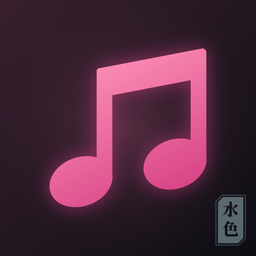
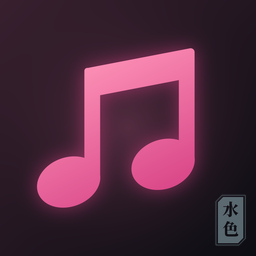
feat: menus in the order all Kai apps share, a color for every source
Settings: Library, each source with its colored dot and state, Playback or
Reading, Display (the app's own row last), About with the version, and the
project's line. A source's page: address, sign-in, options with its Color,
test, forget; it wears its color along the top, as KaiVideo's. The icon's
symbol sized by its area and centered.

Changed region(s): [[0.125, 0.1875, 0.8438, 0.8125]]

diff --git a/source/ui_overlay.c b/source/ui_overlay.c
@@ -139,6 +139,12 @@ static void settingValue(const App *app, SettingRow row, uint64_t now_ns, char *
         break;
     }
     case SETTING_ACCENT: snprintf(out, size, "%s", themeAccentName(app->config.accent)); break;
+    case SETTING_NET_COLOR:
+    case SETTING_SRV_COLOR: {
+        int choice = row == SETTING_NET_COLOR ? app->config.network_color : app->config.server_color;
+        snprintf(out, size, "%s", choice ? themeAccentName(choice - 1) : T("Its own"));
+        break;
+    }
     case SETTING_NOW_STYLE: snprintf(out, size, "%s", nowStyleName(app->config.now_style)); break;
     case SETTING_BACKGROUND:
         snprintf(out, size, "%.40s", app->config.background[0] ? app->config.background : T("Cover colors"));
@@ -241,7 +247,22 @@ static int drawNote(int x, int y, int width, const char *text, bool draw)
     return lines;
 }
 
-static void drawSettings(const App *app, uint64_t now_ns)
+#define SOURCE_DOT_SIZE 12
+#define SOURCE_DOT_ROOM 20  // The dot and the gap after it.
+
+static void sourceDot(int x, int middle, Color color)
+{
+    gfxFillRoundRect(x, middle - SOURCE_DOT_SIZE / 2, SOURCE_DOT_SIZE, SOURCE_DOT_SIZE, SOURCE_DOT_SIZE / 2, color);
+}
+
+#define SOURCE_BAND_H 5  // A source's page: its color along the top, as KaiVideo's.
+
+static bool isSourcePage(int page)
+{
+    return page == SETTINGS_PAGE_NETWORK || page == SETTINGS_PAGE_SERVER;
+}
+
+static void drawSettingsPanel(const App *app, uint64_t now_ns)
 {
     SettingRow rows[SETTINGS_PAGE_MAX_ROWS];
     int count = settingsPageRows(app->settings_page, rows);
@@ -251,9 +272,15 @@ static void drawSettings(const App *app, uint64_t now_ns)
     int x = (GFX_WIDTH - SETTINGS_W) / 2, y = (GFX_HEIGHT - h) / 2;
     dimScreen();
     panel(x, y, SETTINGS_W, h);
+    if (isSourcePage(app->settings_page))
+        gfxFillRoundRect(x + 16, y, SETTINGS_W - 32, SOURCE_BAND_H, SOURCE_BAND_H / 2, COLOR_ACCENT);
     int title_x = x + PANEL_PAD;
     if (app->settings_page != SETTINGS_PAGE_MAIN) {  // A page: back to the main one.
         title_x += uiDrawBackButtonHit(x + PANEL_PAD - 4, y + 18, false, HIT_OVERLAY_BACK) + 12;
+    }
+    if (app->settings_page == SETTINGS_PAGE_NETWORK || app->settings_page == SETTINGS_PAGE_SERVER) {  // Its color.
+        sourceDot(title_x, y + 37, app->settings_page == SETTINGS_PAGE_NETWORK ? COLOR_NETWORK : COLOR_SERVER);
+        title_x += SOURCE_DOT_ROOM;
     }
     fontDraw(FONT_BOLD, 24, title_x, y + 22, settingsPageTitle(app->settings_page), COLOR_TEXT);
 
@@ -266,8 +293,12 @@ static void drawSettings(const App *app, uint64_t now_ns)
         bool opens = settingsRowPage((SettingRow)i) != SETTINGS_PAGE_MAIN;
         if (selected)
             drawRowHighlight(x + 16, row_y, SETTINGS_W - 32, SETTINGS_ROW_H - 6);
-        fontDraw(selected ? FONT_BOLD : FONT_REGULAR, 21, x + PANEL_PAD, row_y + 8,
-                 settingsRowLabel((SettingRow)i), COLOR_TEXT);
+        int label_x = x + PANEL_PAD;
+        if (i == SETTING_OPEN_NETWORK || i == SETTING_OPEN_SERVER) {  // A source: its color, as KaiVideo's.
+            sourceDot(label_x, row_y + 22, i == SETTING_OPEN_NETWORK ? COLOR_NETWORK : COLOR_SERVER);
+            label_x += SOURCE_DOT_ROOM;
+        }
+        fontDraw(selected ? FONT_BOLD : FONT_REGULAR, 21, label_x, row_y + 8, settingsRowLabel((SettingRow)i), COLOR_TEXT);
         settingValue(app, (SettingRow)i, now_ns, value, sizeof(value));
         int value_w = fontTextWidth(FONT_BOLD, 20, value);
         int value_x = x + SETTINGS_W - PANEL_PAD - value_w - (editable || opens ? 24 : 0);
@@ -288,6 +319,16 @@ static void drawSettings(const App *app, uint64_t now_ns)
     else
         fontDrawClipped(FONT_REGULAR, 16, x + PANEL_PAD, y + h - 40, SETTINGS_W - 2 * PANEL_PAD,
                         T("Open source (MIT)  ·  github.com/mizuiroame/kaiplayer"), COLOR_FAINT);
+}
+
+// A source's page in its color (the accent's, for as long as it's drawn).
+static void drawSettings(const App *app, uint64_t now_ns)
+{
+    Color accent = g_ui_accent;
+    if (isSourcePage(app->settings_page))
+        g_ui_accent = app->settings_page == SETTINGS_PAGE_NETWORK ? COLOR_NETWORK : COLOR_SERVER;
+    drawSettingsPanel(app, now_ns);
+    g_ui_accent = accent;
 }
 
 static void drawKey(int x, int y, int w, const char *label, bool selected, bool lit, int hit_arg)

diff --git a/tests/test_touch.c b/tests/test_touch.c
@@ -93,18 +93,21 @@ static void testSettings(void)
     CHECK(settingsPageRows(SETTINGS_PAGE_MAIN, rows) == 6);
     CHECK(rows[0] == SETTING_OPEN_LIBRARY && rows[1] == SETTING_OPEN_NETWORK && rows[2] == SETTING_OPEN_SERVER &&
           rows[3] == SETTING_OPEN_PLAYBACK && rows[4] == SETTING_OPEN_DISPLAY && rows[5] == SETTING_ABOUT);
-    CHECK(settingsPageRows(SETTINGS_PAGE_SERVER, rows) == 5);
-    CHECK(rows[0] == SETTING_SRV_ADDRESS && rows[1] == SETTING_SRV_ACCOUNT && rows[2] == SETTING_SRV_TEST &&
-          rows[3] == SETTING_SRV_CERTIFICATE && rows[4] == SETTING_SRV_FORGET);
+    // Every source's page in one order, as the other Kai apps: address, sign-in, options (color last), test, forget.
+    CHECK(settingsPageRows(SETTINGS_PAGE_SERVER, rows) == 6);
+    CHECK(rows[0] == SETTING_SRV_ADDRESS && rows[1] == SETTING_SRV_ACCOUNT && rows[2] == SETTING_SRV_CERTIFICATE &&
+          rows[3] == SETTING_SRV_COLOR && rows[4] == SETTING_SRV_TEST && rows[5] == SETTING_SRV_FORGET);
+    CHECK(settingsRowEditable(SETTING_SRV_COLOR) && settingsRowEditable(SETTING_NET_COLOR));
     CHECK(settingsRowPage(SETTING_OPEN_SERVER) == SETTINGS_PAGE_SERVER &&
           settingsPageRow(SETTINGS_PAGE_SERVER) == SETTING_OPEN_SERVER);
     CHECK(settingsRowEditable(SETTING_SRV_CERTIFICATE) && !settingsRowEditable(SETTING_SRV_ADDRESS) &&
           !settingsRowEditable(SETTING_SRV_ACCOUNT) && !settingsRowEditable(SETTING_SRV_TEST) &&
           !settingsRowEditable(SETTING_SRV_FORGET));
     CHECK(strcmp(settingsPageTitle(SETTINGS_PAGE_SERVER), "Navidrome") == 0 && settingsPageNote(SETTINGS_PAGE_SERVER));
-    CHECK(settingsPageRows(SETTINGS_PAGE_NETWORK, rows) == 6);
+    CHECK(settingsPageRows(SETTINGS_PAGE_NETWORK, rows) == 7);
     CHECK(rows[0] == SETTING_NET_ADDRESS && rows[1] == SETTING_NET_ACCOUNT && rows[2] == SETTING_NET_REMEMBER &&
-          rows[3] == SETTING_NET_UNSIGNED && rows[4] == SETTING_NET_TEST && rows[5] == SETTING_NET_FORGET);
+          rows[3] == SETTING_NET_UNSIGNED && rows[4] == SETTING_NET_COLOR && rows[5] == SETTING_NET_TEST &&
+          rows[6] == SETTING_NET_FORGET);
     CHECK(!settingsRowEditable(SETTING_NET_ADDRESS) && !settingsRowEditable(SETTING_NET_FORGET));
     // The two switches change with the arrows too, as Certificate check.
     CHECK(settingsRowEditable(SETTING_NET_REMEMBER) && settingsRowEditable(SETTING_NET_UNSIGNED));

diff --git a/source/settings.c b/source/settings.c
@@ -10,17 +10,17 @@ static const char *const ROW_LABELS[SETTING_COUNT] = {
     N_("User and password"), N_("Test the connection"), N_("Forget this folder"), N_("Navidrome"), N_("Server"),
     N_("User and password"), N_("Test the connection"), N_("Certificate check"), N_("Forget this server"),
     N_("Remember the password"), N_("Allow without signing (old NAS)"), N_("Credits and licenses"),
-    N_("Check once a day"), N_("Look for an update"),
+    N_("Check once a day"), N_("Look for an update"), N_("Color"), N_("Color"),
 };
 
 // The same pages, in the same order, as KaiVideo's and KaiRadio's Settings.
 static const SettingRow MAIN_ROWS[] = {SETTING_OPEN_LIBRARY, SETTING_OPEN_NETWORK, SETTING_OPEN_SERVER,
                                        SETTING_OPEN_PLAYBACK, SETTING_OPEN_DISPLAY, SETTING_ABOUT};
 static const SettingRow LIBRARY_ROWS[] = {SETTING_LIBRARY, SETTING_RESCAN};
-static const SettingRow NETWORK_ROWS[] = {SETTING_NET_ADDRESS,  SETTING_NET_ACCOUNT, SETTING_NET_REMEMBER,
-                                          SETTING_NET_UNSIGNED, SETTING_NET_TEST,    SETTING_NET_FORGET};
-static const SettingRow SERVER_ROWS[] = {SETTING_SRV_ADDRESS, SETTING_SRV_ACCOUNT, SETTING_SRV_TEST,
-                                         SETTING_SRV_CERTIFICATE, SETTING_SRV_FORGET};
+static const SettingRow NETWORK_ROWS[] = {SETTING_NET_ADDRESS, SETTING_NET_ACCOUNT, SETTING_NET_REMEMBER,
+                                          SETTING_NET_UNSIGNED, SETTING_NET_COLOR, SETTING_NET_TEST, SETTING_NET_FORGET};
+static const SettingRow SERVER_ROWS[] = {SETTING_SRV_ADDRESS, SETTING_SRV_ACCOUNT, SETTING_SRV_CERTIFICATE,
+                                         SETTING_SRV_COLOR, SETTING_SRV_TEST, SETTING_SRV_FORGET};
 static const SettingRow PLAYBACK_ROWS[] = {SETTING_SLEEP, SETTING_RESUME, SETTING_SCREEN_OFF, SETTING_EQUALIZER,
                                            SETTING_REPLAYGAIN};
 static const SettingRow ABOUT_ROWS[] = {SETTING_CREDITS, SETTING_UPDATE_AUTO, SETTING_UPDATE_NOW};

diff --git a/source/config.c b/source/config.c
@@ -80,6 +80,10 @@ static void applyLine(Config *c, char *line)
         c->replaygain = clampInt(atoi(value), 0, REPLAYGAIN_MODE_COUNT - 1);
     } else if (strcmp(key, "accent") == 0) {
         c->accent = clampInt(atoi(value), 0, THEME_ACCENT_COUNT - 1);
+    } else if (strcmp(key, "network_color") == 0) {
+        c->network_color = clampInt(atoi(value), 0, SOURCE_COLOR_CHOICES - 1);
+    } else if (strcmp(key, "server_color") == 0) {
+        c->server_color = clampInt(atoi(value), 0, SOURCE_COLOR_CHOICES - 1);
     } else if (strcmp(key, "screen_off") == 0) {
         c->screen_off_minutes = clampInt(atoi(value), 0, 60);
     } else if (strcmp(key, "now_style") == 0) {
@@ -170,6 +174,7 @@ bool configSave(const Config *c)
         fprintf(f, b ? ",%d" : "%d", c->eq_gains[b]);
     fprintf(f, "\nreplaygain=%d\naccent=%d\nscreen_off=%d\nnow_style=%d\nbackground_blur=%d\n", c->replaygain,
             c->accent, c->screen_off_minutes, c->now_style, c->background_blur);
+    fprintf(f, "network_color=%d\nserver_color=%d\n", c->network_color, c->server_color);
     if (c->background[0] && !strpbrk(c->background, "\r\n/"))
         fprintf(f, "background=%s\n", c->background);
     if (c->language[0] && !strpbrk(c->language, "\r\n"))

diff --git a/source/app_settings.c b/source/app_settings.c
@@ -185,6 +185,14 @@ void appChangeSetting(App *app, SettingRow row, int delta)
         app->config.accent = ((app->config.accent + delta) % THEME_ACCENT_COUNT + THEME_ACCENT_COUNT) % THEME_ACCENT_COUNT;
         configSave(&app->config);
         break;
+    case SETTING_NET_COLOR:
+        app->config.network_color = (app->config.network_color + delta + SOURCE_COLOR_CHOICES) % SOURCE_COLOR_CHOICES;
+        configSave(&app->config);
+        break;
+    case SETTING_SRV_COLOR:
+        app->config.server_color = (app->config.server_color + delta + SOURCE_COLOR_CHOICES) % SOURCE_COLOR_CHOICES;
+        configSave(&app->config);
+        break;
     case SETTING_NOW_STYLE:
         app->config.now_style = ((app->config.now_style + delta) % NOW_STYLE_COUNT + NOW_STYLE_COUNT) % NOW_STYLE_COUNT;
         configSave(&app->config);

diff --git a/source/ui_common.h b/source/ui_common.h
@@ -18,8 +18,11 @@
 extern Color g_ui_accent;
 #define COLOR_ACCENT g_ui_accent
 #define COLOR_FOLDER GFX_RGB(0x7C, 0xC4, 0xFF)
-#define COLOR_NETWORK GFX_RGB(0x2E, 0xC4, 0xB6)  // The network folder's, as in KaiVideo.
-#define COLOR_SERVER GFX_RGB(0x3D, 0x6B, 0xFF)   // The Navidrome server's: a deep blue, not an accent's.
+#define COLOR_NETWORK_OWN GFX_RGB(0x2E, 0xC4, 0xB6)  // The network folder's, as in KaiVideo.
+#define COLOR_SERVER_OWN GFX_RGB(0x3D, 0x6B, 0xFF)   // The Navidrome server's: a deep blue, not an accent's.
+extern Color g_ui_network, g_ui_server;  // Their own, or the accent chosen for them in Settings.
+#define COLOR_NETWORK g_ui_network
+#define COLOR_SERVER g_ui_server
 #define COLOR_TEXT GFX_RGB(0xF2, 0xF2, 0xF5)
 #define COLOR_DIM GFX_RGB(0xA4, 0xA4, 0xB0)
 #define COLOR_FAINT GFX_RGB(0x5E, 0x5E, 0x6A)

diff --git a/source/ui.c b/source/ui.c
@@ -530,6 +530,9 @@ void uiDraw(const App *app, const PlayerStatus *status, uint64_t now_ns)
     g_ui_list_focused = app->focus != FOCUS_PLAYER;
     uiResolveTrack(status, art, &track);
     g_ui_accent = themeAccentColor(app->config.accent, track.cover ? track.cover->vibrant : 0, track.cover != NULL);
+    g_ui_network = app->config.network_color ? themeAccentColor(app->config.network_color - 1, 0, false)
+                                             : COLOR_NETWORK_OWN;
+    g_ui_server = app->config.server_color ? themeAccentColor(app->config.server_color - 1, 0, false) : COLOR_SERVER_OWN;
 
     // Only the CPU keeps the view behind an overlay: the GPU draws it all again quickly.
     bool overlay = uiOverlayOpen(app), keep = overlay && gfxCanReadBack();

diff --git a/source/config.h b/source/config.h
@@ -39,6 +39,8 @@ typedef struct {
     int eq_gains[EQ_BANDS];      // dB per band.
     int replaygain;              // ReplayGainMode.
     int accent;                  // Theme accent, see theme.h.
+    int network_color;           // The network folder's color: 0 its own, else a preset accent + 1.
+    int server_color;            // Navidrome's, the same way.
     int screen_off_minutes;      // Turn the screen off after this long idle while playing; 0 never.
     int now_style;               // NowStyle: cover, vinyl, CD or cassette.
     bool show_lyrics;            // Now Playing shows a song's synced lyrics when it has them.

diff --git a/source/settings.h b/source/settings.h
@@ -38,6 +38,8 @@ typedef enum {
     SETTING_CREDITS,        // About: credits and licenses (the About panel).
     SETTING_UPDATE_AUTO,    // About: look for a new version once a day.
     SETTING_UPDATE_NOW,     // About: look now, or install the one found.
+    SETTING_NET_COLOR,      // The color the network folder wears: its own, or an accent.
+    SETTING_SRV_COLOR,      // Navidrome's.
     SETTING_COUNT,
 } SettingRow;
 

diff --git a/source/theme.h b/source/theme.h
@@ -7,6 +7,8 @@
 
 #define THEME_ACCENT_COUNT 7
 #define THEME_ACCENT_FROM_COVER (THEME_ACCENT_COUNT - 1)
+// A source's color (the network folder's, Navidrome's): its own, or one of the presets (not From cover).
+#define SOURCE_COLOR_CHOICES THEME_ACCENT_COUNT
 
 const char *themeAccentName(int accent);
 // The accent color (0xAABBGGRR). For "From cover" it uses the cover's

diff --git a/source/ui_common.c b/source/ui_common.c
@@ -8,6 +8,7 @@
 #include "meta.h"
 #include "ui_buttons.h"
 
+Color g_ui_network = COLOR_NETWORK_OWN, g_ui_server = COLOR_SERVER_OWN;
 Color g_ui_accent = GFX_RGB(0xFF, 0x6B, 0x9A);
 
 void uiSplitTrackPath(const char *path, char *title, char *folder)
